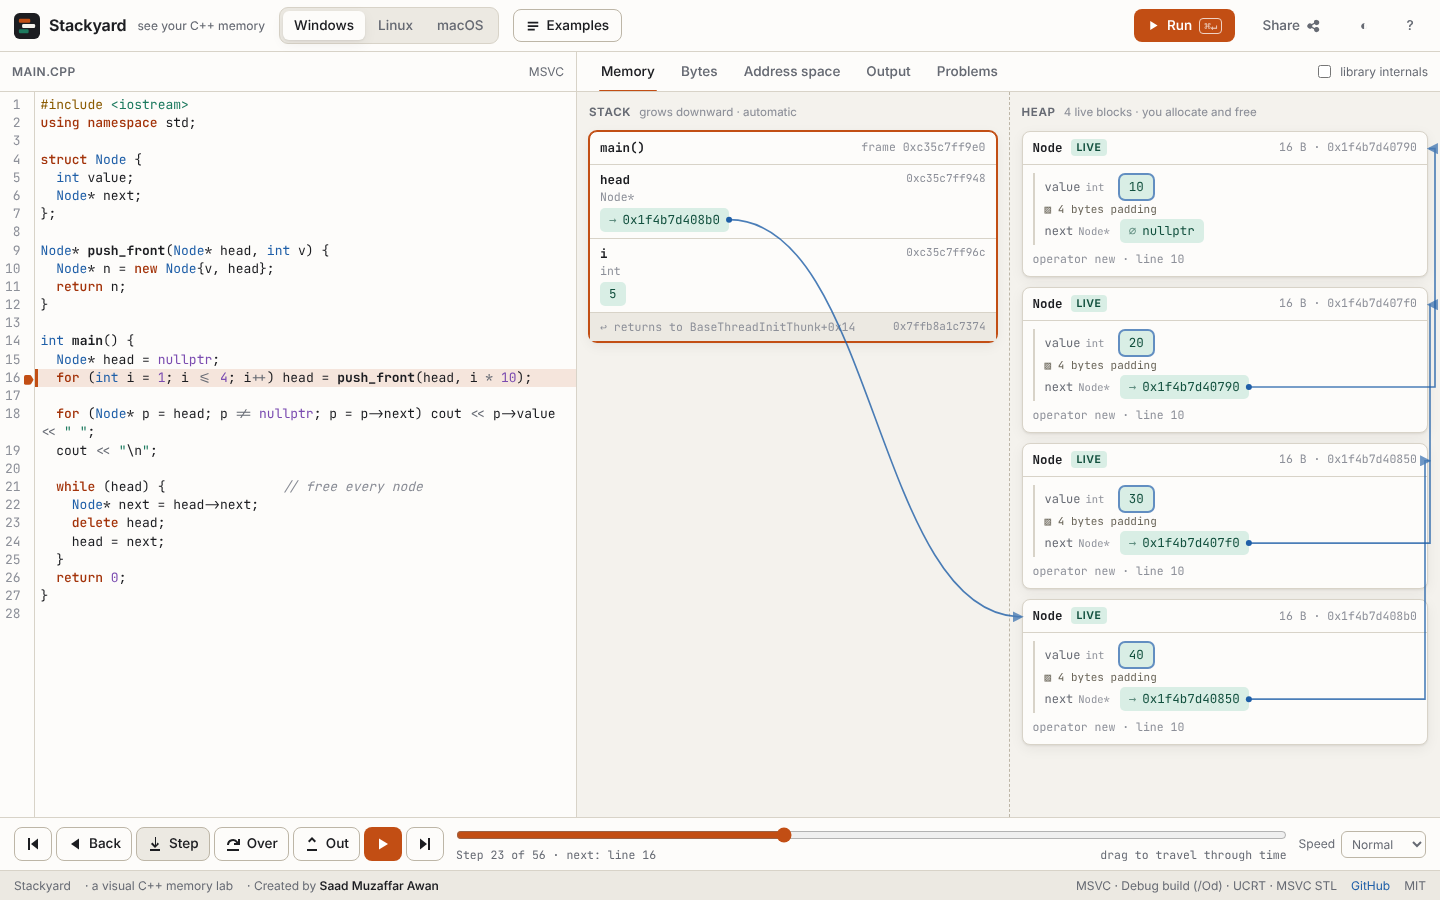
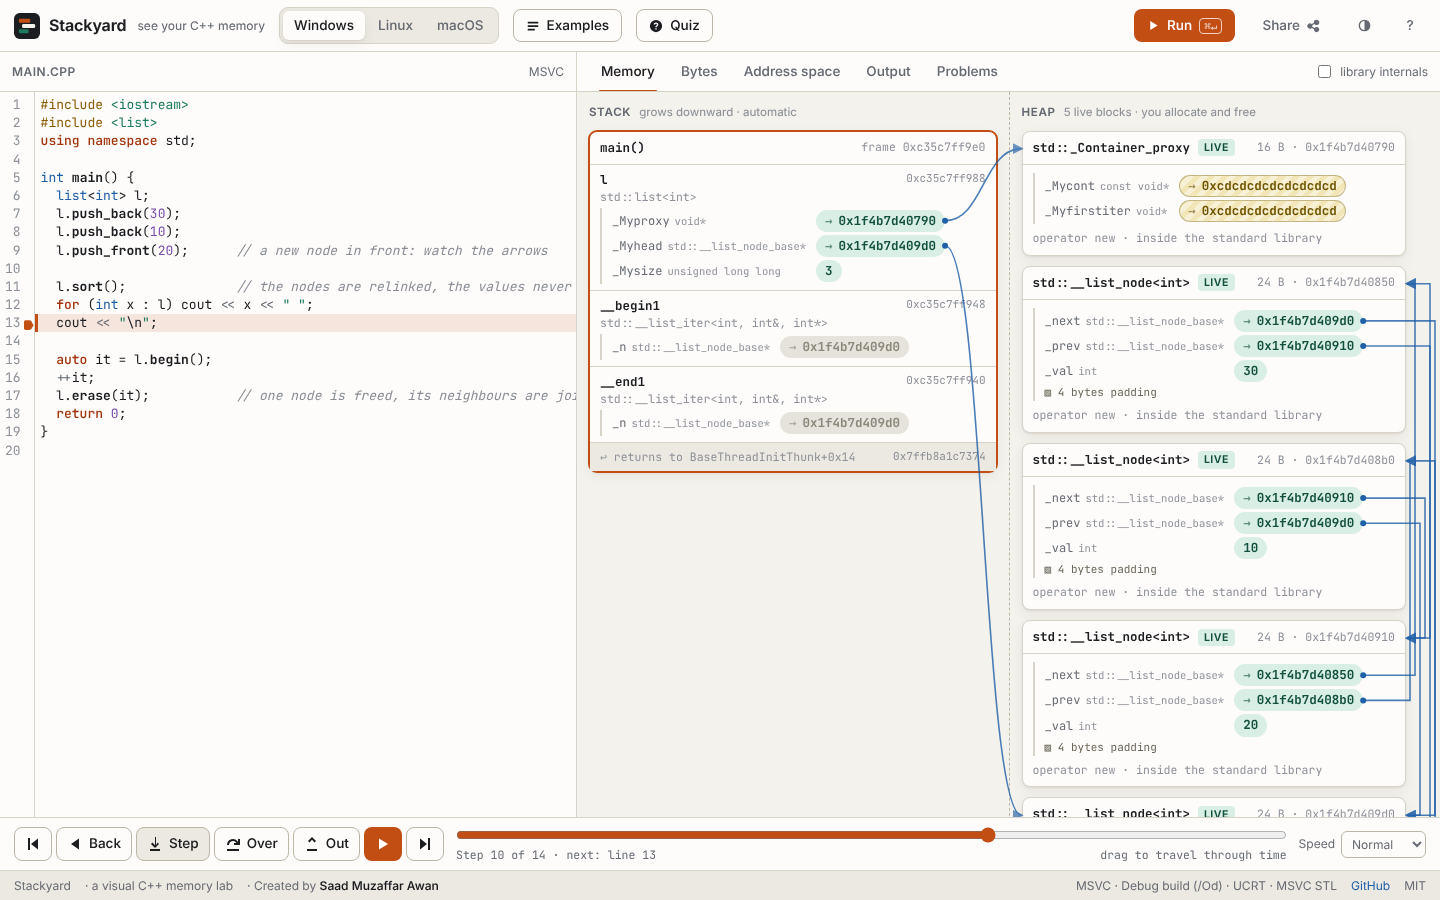
Type library heap blocks (nodes, buffers) for the visualiser; inline base subobjects; one-past-end pointers are not dangling
Claude-Session: https://claude.ai/code/session_01MWWbib9C4c6UxTo2PCQHx9

diff --git a/src/ui/decode.ts b/src/ui/decode.ts
@@ -18,6 +18,8 @@ export interface Value {
   children?: Value[];
   /** a decoded C string preview for char pointers/arrays */
   preview?: string;
+  /** set when the field is inherited from a base class */
+  via?: string;
 }
 
 const hex = (n: number | bigint) => '0x' + n.toString(16);
@@ -155,6 +157,12 @@ export function decode(node: TypeNode, addr: number, rp: Replay, label: string, 
         if (p.kind === 'vptr' || p.kind === 'vbptr') {
           const raw = rp.read(addr + p.off, 8);
           kids.push({ label: p.kind, type: 'pointer to ' + (p.kind === 'vptr' ? 'vtable' : 'vbase table'), addr: addr + p.off, size: 8, text: hex(readUInt(raw)), state: dominantState(rp.states(addr + p.off, 8)), kind: 'pointer', ptr: Number(readUInt(raw)) });
+          continue;
+        }
+        if (p.kind === 'base' && p.type && depth < 4) {
+          // a base subobject is shown inline: its fields are the derived object's own, at the same addresses
+          const sub = decode(p.type, addr + p.off, rp, p.label, depth + 1);
+          for (const k of sub.children ?? []) kids.push(k.kind === 'pad' ? k : { ...k, via: p.label });
           continue;
         }
         if (p.type && depth < 4) kids.push(decode(p.type, addr + p.off, rp, p.label, depth + 1));

diff --git a/src/engine/natives.ts b/src/engine/natives.ts
@@ -8,7 +8,7 @@ import { formatPrintf, fmtExp, fmtFixed, fmtG, nonFinite, pointerText } from './
 import { S } from './trace';
 import { sizeOf } from './layout';
 import { throwStd } from './expr';
-import type { Type } from './types';
+import { arrOf, type Type } from './types';
 
 type NT = NativeFn;
 
@@ -629,6 +629,19 @@ export function registerNatives(I: Interp) {
     return ret.cptr(buf);
   });
   reg('std::__lastInputLen', (I2) => ret.sz(new TextEncoder().encode(I2.lastLine).length));
+
+  // ---- typing of library allocations: __tag(p, n) says "this heap block holds n objects of p's pointee type" ----
+  reg('std::__tag', (I2, a) => {
+    const p = I2.rv(a[0]);
+    if (p.k !== 'i' || p.t.k !== 'ptr') return ret.void();
+    const addr = Number(p.v);
+    const n = intOf(I2, a[1]);
+    const rec = I2.heap.live.get(addr);
+    const to = p.t.to;
+    if (!rec || to.k === 'void' || n < 1) return ret.void();
+    I2.typeInfo[rec.id] = I2.typeNodeOf(n === 1 ? to : arrOf(to, n));
+    return ret.void();
+  });
 
   // ---- in-memory streams: istringstream / ostringstream / stringstream share one text buffer per id ----
   reg('std::__ss_new', (I2) => { const id = I2.nextSid++; I2.sstreams.set(id, { text: '', pos: 0 }); return ret.int(id); });

diff --git a/src/ui/panels/MemoryPanel.tsx b/src/ui/panels/MemoryPanel.tsx
@@ -73,7 +73,7 @@ export function MemoryPanel({ view, sel, onSelect, showLib }: Props) {
         for (const x of view.access) if (x.a < a + n && a < x.a + x.l) return x.kind;
         return null;
       },
-      resolves: (p) => view.locate(p) !== null,
+      resolves: (p) => view.locate(p) !== null || view.locate(p - 1) !== null, // a pointer one past the end of an object is fine
       onPointer: (p) => {
         const t = view.locate(p);
         if (t) onSelect({ kind: t.kind, id: t.id });

diff --git a/src/ui/components/ValueView.tsx b/src/ui/components/ValueView.tsx
@@ -20,7 +20,7 @@ const STATE_WORD: Record<number, string> = {
 };
 
 function title(v: Value): string {
-  return `${v.label} · ${v.type || 'padding'}\n${hexAddr(v.addr)} · ${v.size} byte${v.size === 1 ? '' : 's'}\n${STATE_WORD[v.state] ?? ''}`;
+  return `${v.label} · ${v.type || 'padding'}${v.via ? ` (from base ${v.via})` : ''}\n${hexAddr(v.addr)} · ${v.size} byte${v.size === 1 ? '' : 's'}\n${STATE_WORD[v.state] ?? ''}`;
 }
 
 function Leaf({ v, ctx }: { v: Value; ctx: ValueCtx }) {

diff --git a/src/engine/prelude/string.hpp b/src/engine/prelude/string.hpp
@@ -29,7 +29,7 @@ class string {
   size_t _len() const { return _Mysize; }
   size_t _cap() const { return _Myres; }
   void _setlen(size_t n) { _Mysize = n; _ptr()[n] = '\0'; }
-  void _init() { _Myproxy = ::operator new(16); _Mysize = 0; _Myres = 15; _Bx._Buf[0] = '\0'; }
+  void _init() { _Myproxy = __typed_new<_Container_proxy>(1); _Mysize = 0; _Myres = 15; _Bx._Buf[0] = '\0'; }
   static size_t _grown(size_t req, size_t old) {
     size_t masked = req | 15;
     size_t geo = old + old / 2;
@@ -88,7 +88,7 @@ class string {
 
   // make room for `cap` characters (+ terminator) while keeping the first `keep` characters
   void _reserve_keep(size_t cap, size_t keep) {
-    char* np = static_cast<char*>(::operator new(cap + 1));
+    char* np = __typed_new<char>(cap + 1);
     if (keep) memcpy(np, _ptr(), keep);
     np[keep] = '\0';
     _free_heap();
@@ -98,7 +98,7 @@ class string {
     _init();
     if (n > _cap()) {
       size_t cap = _ctor_cap(n);
-      char* np = static_cast<char*>(::operator new(cap + 1));
+      char* np = __typed_new<char>(cap + 1);
       _adopt(np, cap);
     }
     if (n) memcpy(_ptr(), s, n);
@@ -123,7 +123,7 @@ class string {
       _setlen(nl);
     } else {
       size_t cap = _grown(nl, _cap());
-      char* np = static_cast<char*>(::operator new(cap + 1));
+      char* np = __typed_new<char>(cap + 1);
       if (pos) memcpy(np, _ptr(), pos);
       if (len2) memcpy(np + pos, s, len2);
       if (tail) memcpy(np + pos + len2, _ptr() + pos + len1, tail);
@@ -151,7 +151,7 @@ class string {
   string() { _init(); }
   string(const char* s) { _construct(s, strlen(s)); }
   string(const char* s, size_t n) { _construct(s, n); }
-  string(size_t n, char c) { _init(); if (n > _cap()) { size_t cap = _ctor_cap(n); _adopt(static_cast<char*>(::operator new(cap + 1)), cap); } memset(_ptr(), c, n); _setlen(n); }
+  string(size_t n, char c) { _init(); if (n > _cap()) { size_t cap = _ctor_cap(n); _adopt(__typed_new<char>(cap + 1), cap); } memset(_ptr(), c, n); _setlen(n); }
   string(const string& o) { _construct(o._ptr(), o._len()); }
   string(const string& o, size_t pos, size_t n = npos) { o._range_check(pos, "basic_string::basic_string"); size_t m = o._len() - pos; if (n < m) m = n; _construct(o._ptr() + pos, m); }
   string(string&& o) noexcept {
@@ -168,7 +168,7 @@ class string {
   template <class It, class = typename enable_if<!is_integral<It>::value>::type> string(It first, It last) {
     size_t n = 0; for (It i = first; i != last; ++i) ++n;
     _init();
-    if (n > _cap()) { size_t cap = _ctor_cap(n); _adopt(static_cast<char*>(::operator new(cap + 1)), cap); }
+    if (n > _cap()) { size_t cap = _ctor_cap(n); _adopt(__typed_new<char>(cap + 1), cap); }
     size_t k = 0; for (; first != last; ++first) _ptr()[k++] = *first;
     _setlen(n);
   }

diff --git a/src/engine/prelude/deque.hpp b/src/engine/prelude/deque.hpp
@@ -74,8 +74,8 @@ class deque {
   size_t _pad; size_t _pad2;
   static size_t _bs() { return sizeof(T) < 256 ? 4096 / sizeof(T) : 16; }
 #endif
-  T** _alloc_map(size_t n) { T** m = static_cast<T**>(::operator new(n * sizeof(T*))); for (size_t i = 0; i < n; ++i) m[i] = 0; return m; }
-  static T* _alloc_block() { return static_cast<T*>(::operator new(_bs() * sizeof(T))); }
+  T** _alloc_map(size_t n) { T** m = __typed_new<T*>(n); for (size_t i = 0; i < n; ++i) m[i] = 0; return m; }
+  static T* _alloc_block() { return __typed_new<T>(_bs()); }
   void _grow_map() {
     size_t inc = _Mapsize == 0 ? 8 : _Mapsize;
     size_t nsz = _Mapsize + inc;
@@ -90,7 +90,7 @@ class deque {
   }
   void _init() {
 #if defined(_WIN32)
-    _Myproxy = ::operator new(16);
+    _Myproxy = __typed_new<_Container_proxy>(1);
 #endif
     _Map = 0; _Mapsize = 0; _Myoff = 0; _Mysize = 0;
   }
@@ -295,8 +295,8 @@ class deque {
   iterator _M_start;
   iterator _M_finish;
   static size_t _bufsz() { return sizeof(T) < 512 ? 512 / sizeof(T) : 1; }
-  static T* _alloc_node() { return static_cast<T*>(::operator new(_bufsz() * sizeof(T))); }
-  static T** _alloc_map(size_t n) { return static_cast<T**>(::operator new(n * sizeof(T*))); }
+  static T* _alloc_node() { return __typed_new<T>(_bufsz()); }
+  static T** _alloc_map(size_t n) { return __typed_new<T*>(n); }
   void _init_map(size_t num_elements) {
     size_t num_nodes = num_elements / _bufsz() + 1;
     _M_map_size = 8 > num_nodes + 2 ? 8 : num_nodes + 2;

diff --git a/src/engine/prelude/list.hpp b/src/engine/prelude/list.hpp
@@ -50,11 +50,11 @@ class list {
   size_t& _sz() { return _Mysize; }
   size_t _sz() const { return _Mysize; }
   void _init() {
-    _Myproxy = 0;
-    _Myhead = static_cast<__list_node_base*>(::operator new(sizeof(_Node)));
+    _Myproxy = __typed_new<_Container_proxy>(1);
+    _Myhead = static_cast<__list_node_base*>(static_cast<void*>(__typed_new<_Node>(1)));
     _Myhead->_next = _Myhead; _Myhead->_prev = _Myhead; _Mysize = 0;
   }
-  void _release() { ::operator delete(_Myhead); }
+  void _release() { ::operator delete(_Myhead); ::operator delete(_Myproxy); }
 #else
   __list_node_base _M_node;  // the sentinel is part of the list object
   size_t _M_size;
@@ -71,7 +71,7 @@ class list {
     return n;
   }
   template <class... A> __list_node_base* _make(__list_node_base* pos, A&&... a) {
-    _Node* n = static_cast<_Node*>(::operator new(sizeof(_Node)));
+    _Node* n = __typed_new<_Node>(1);
     ::new (static_cast<void*>(&n->_val)) T(std::forward<A>(a)...);
     return _link(pos, n);
   }

diff --git a/src/engine/prelude/unordered.hpp b/src/engine/prelude/unordered.hpp
@@ -102,7 +102,7 @@ class __hashtable : private Hash, private Eq {
   size_t _bkt_of(__ht_node_base* n) const { return _code_of(n) % _M_bucket_count; }
 
   template <class... A> _Node* _make_node(A&&... a) {
-    _Node* n = static_cast<_Node*>(::operator new(sizeof(_Node)));
+    _Node* n = __typed_new<_Node>(1);
     n->_M_nxt = 0;
     ::new (static_cast<void*>(&n->_M_v)) V(std::forward<A>(a)...);
     return n;
@@ -140,7 +140,7 @@ class __hashtable : private Hash, private Eq {
   void _rehash(size_t n) {
     __ht_node_base** nb;
     if (n == 1) { _M_single_bucket = 0; nb = &_M_single_bucket; }
-    else { nb = static_cast<__ht_node_base**>(::operator new(n * sizeof(__ht_node_base*))); for (size_t i = 0; i < n; ++i) nb[i] = 0; }
+    else { nb = __typed_new<__ht_node_base*>(n); for (size_t i = 0; i < n; ++i) nb[i] = 0; }
     __ht_node_base* p = _M_before_begin._M_nxt;
     _M_before_begin._M_nxt = 0;
     size_t bbegin = 0;

diff --git a/src/engine/prelude/tree.hpp b/src/engine/prelude/tree.hpp
@@ -321,7 +321,7 @@ class __rb_tree
     return y;
   }
 
-  link_type _new_node_raw() { return static_cast<link_type>(static_cast<void*>(::operator new(sizeof(node_type)))); }
+  link_type _new_node_raw() { return static_cast<link_type>(static_cast<void*>(__typed_new<node_type>(1))); }
   template <class... Args> link_type _create_node(Args&&... args) {
     link_type n = _new_node_raw();
 #if defined(_WIN32)
@@ -334,7 +334,7 @@ class __rb_tree
 
   void _init() {
 #if defined(_WIN32)
-    _Myproxy = ::operator new(16);
+    _Myproxy = __typed_new<_Container_proxy>(1);
     _Myhead = _new_node_raw();
     _Myhead->left = _Myhead; _Myhead->parent = _Myhead; _Myhead->right = _Myhead;
     _Myhead->color = 1; _Myhead->isnil = 1;

diff --git a/src/engine/prelude/core.hpp b/src/engine/prelude/core.hpp
@@ -93,3 +93,12 @@ template <class T> const T* begin(initializer_list<T> il) { return il.begin(); }
 template <class T> const T* end(initializer_list<T> il) { return il.end(); }
 }
 #define offsetof(T, m) ((size_t)&(((T*)0)->m))
+
+// Library allocations are typed for the visualiser: __tag(p, n) records that the heap block at p holds n objects of p's type.
+void* operator new(size_t);
+namespace std {
+void __tag(...);
+// MSVC's debug-iterator bookkeeping block, allocated by every container in a Debug build
+struct _Container_proxy { const void* _Mycont; void* _Myfirstiter; };
+template <class T> inline T* __typed_new(size_t n) { T* p = static_cast<T*>(::operator new(n * sizeof(T))); __tag(p, n); return p; }
+}

diff --git a/src/engine/prelude/vector.hpp b/src/engine/prelude/vector.hpp
@@ -46,11 +46,11 @@ class vector {
 
   void _init_empty() {
 #if defined(_WIN32)
-    _Myproxy = ::operator new(16);
+    _Myproxy = __typed_new<_Container_proxy>(1);
 #endif
     SY_B = 0; SY_E = 0; SY_C = 0;
   }
-  static T* _alloc(size_t n) { return n ? static_cast<T*>(::operator new(n * sizeof(T))) : static_cast<T*>(0); }
+  static T* _alloc(size_t n) { return n ? __typed_new<T>(n) : static_cast<T*>(0); }
   void _release() { if (SY_B) { ::operator delete(SY_B); } SY_B = 0; SY_E = 0; SY_C = 0; }
   void _fail_length(const char* where) const { throw length_error(where); }
 
